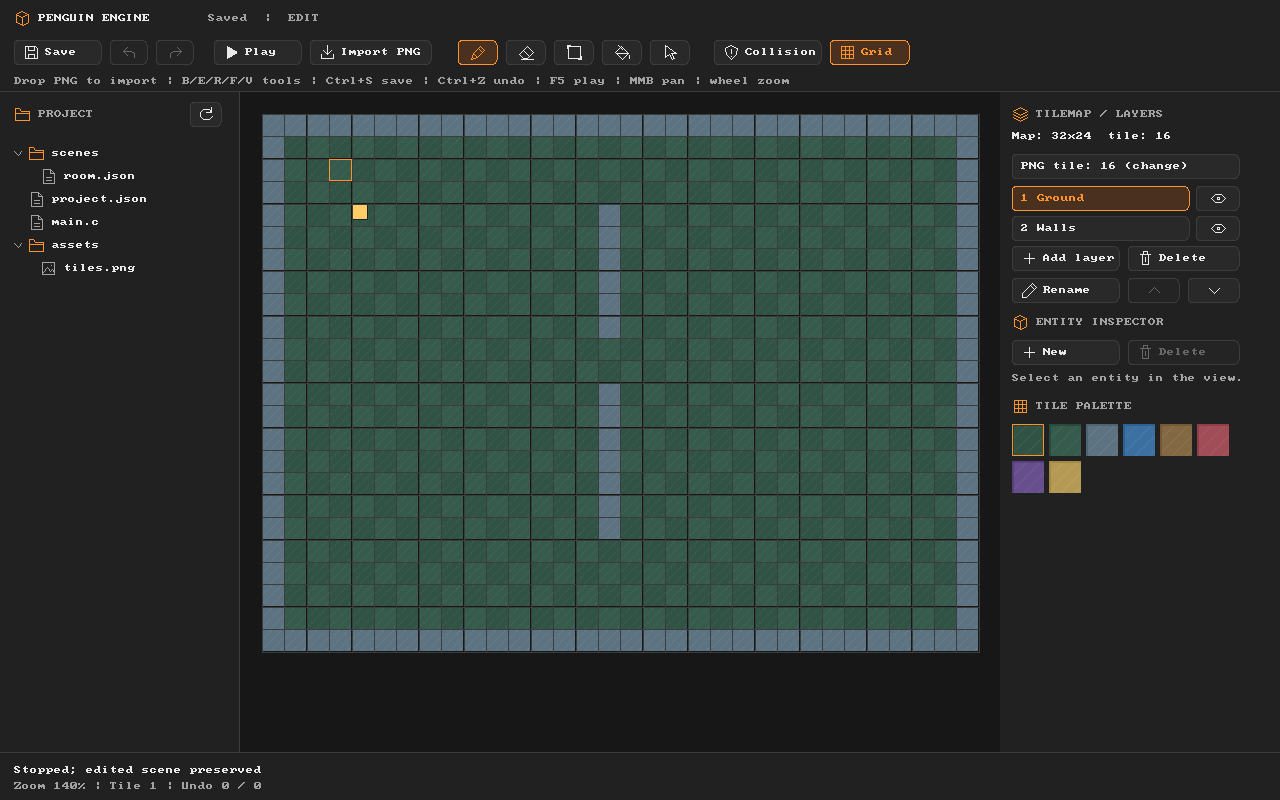
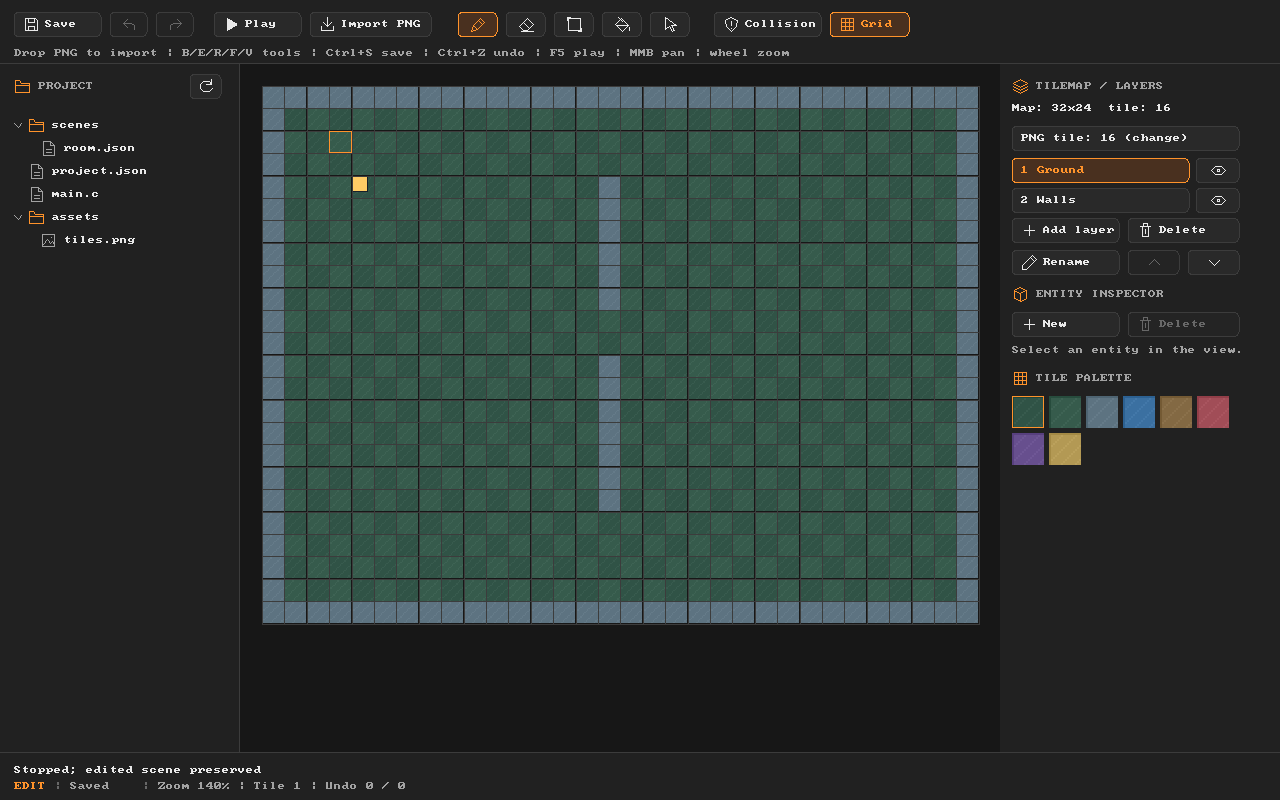
ui: move editor state into status bar and compact toolbar

diff --git a/editor/src/main.c b/editor/src/main.c
@@ -8,7 +8,7 @@
 #include <string.h>
 #define LEFT 240
 #define RIGHT 280
-#define TOP 92
+#define TOP 64
 #define BOTTOM 48
 #define TREE_MAX 256
 typedef enum { BRUSH, ERASE, RECTANGLE, FILL, SELECT } Tool;
@@ -506,15 +506,15 @@ static void play_toggle(void) {
         message("Stopped; edited scene preserved");
 }
 static void draw_tree(void) {
-    section(14, 110, ICON_FOLDER, "PROJECT");
-    if (icon_button(190, 102, 32, ICON_REFRESH, "", "Refresh project files", false, true))
+    section(14, TOP + 18, ICON_FOLDER, "PROJECT");
+    if (icon_button(190, TOP + 10, 32, ICON_REFRESH, "", "Refresh project files", false, true))
         tree_refresh();
-    SDL_Rect clip = {0, 138, LEFT, app.height - 138 - BOTTOM};
+    SDL_Rect clip = {0, TOP + 46, LEFT, app.height - TOP - 46 - BOTTOM};
     SDL_SetRenderClipRect(app.renderer, &clip);
-    int visible = (app.height - 138 - BOTTOM) / 23;
+    int visible = (app.height - TOP - 46 - BOTTOM) / 23;
     for (int i = app.tree_scroll; i < app.tree_count && i < app.tree_scroll + visible; i++) {
         TreeRow row = app.tree[i];
-        float y = 142 + (i - app.tree_scroll) * 23;
+        float y = TOP + 50 + (i - app.tree_scroll) * 23;
         char label[128];
         snprintf(label, sizeof label, "%.20s", row.name);
         SDL_FRect r = {8, y, LEFT - 16, 22};
@@ -551,7 +551,7 @@ static void draw_inspector(void) {
     float x = (float)(app.width - RIGHT + 12);
     char label[128], value[64];
     bool enabled = !app.playing;
-    float y = 110;
+    float y = TOP + 18;
     section(x, y, ICON_LAYERS, "TILEMAP / LAYERS");
     y += 22;
     snprintf(label, sizeof label, "Map: %dx%d  tile: %d", app.scene.width, app.scene.height,
@@ -741,46 +741,40 @@ static void draw(void) {
     bool saved_click = app.click;
     if (modal)
         app.click = false;
-    ui_icon(app.renderer, ICON_ENTITY, 14, 10, 16, UI_ACCENT);
-    text(38, 14, "PENGUIN ENGINE", UI_TEXT);
-    char heading[160];
-    snprintf(heading, sizeof heading, "%s  |  %s",
-             pe_history_dirty(&app.history) ? "Modified" : "Saved", app.playing ? "PLAY" : "EDIT");
-    text(208, 14, heading, UI_MUTED);
     tooltip = NULL;
-    if (icon_button(14, 40, 88, ICON_SAVE, "Save", "Save scene (Ctrl+S)", false,
+    if (icon_button(14, 12, 88, ICON_SAVE, "Save", "Save scene (Ctrl+S)", false,
                     !app.playing && !app.history.pending))
         save();
-    if (icon_button(110, 40, 38, ICON_UNDO, "", "Undo (Ctrl+Z)", false,
+    if (icon_button(110, 12, 38, ICON_UNDO, "", "Undo (Ctrl+Z)", false,
                     !app.playing && app.history.cursor > 0 && !app.history.pending)) {
         pe_undo(&app.history, &app.scene);
         selection_sync();
     }
-    if (icon_button(156, 40, 38, ICON_REDO, "", "Redo (Ctrl+Shift+Z)", false,
+    if (icon_button(156, 12, 38, ICON_REDO, "", "Redo (Ctrl+Shift+Z)", false,
                     !app.playing && app.history.cursor < app.history.count &&
                         !app.history.pending)) {
         pe_redo(&app.history, &app.scene);
         selection_sync();
     }
-    if (icon_button(214, 40, 88, app.playing ? ICON_STOP : ICON_PLAY, app.playing ? "Stop" : "Play",
+    if (icon_button(214, 12, 88, app.playing ? ICON_STOP : ICON_PLAY, app.playing ? "Stop" : "Play",
                     "Play / Stop (F5)", app.playing, !app.history.pending))
         play_toggle();
-    if (icon_button(310, 40, 122, ICON_IMPORT, "Import PNG", "Import a tileset image", false,
+    if (icon_button(310, 12, 122, ICON_IMPORT, "Import PNG", "Import a tileset image", false,
                     !app.playing))
         field_start(FIELD_IMPORT, "");
     const UiIcon tool_icons[] = {ICON_BRUSH, ICON_ERASE, ICON_RECTANGLE, ICON_FILL, ICON_SELECT};
     const char *tool_hints[] = {"Brush (B)", "Eraser (E)", "Rectangle (R)", "Fill (F)",
                                 "Select entity (V)"};
     for (int i = 0; i < 5; i++)
-        if (icon_button(458 + i * 48, 40, 40, tool_icons[i], "", tool_hints[i], app.tool == i,
+        if (icon_button(458 + i * 48, 12, 40, tool_icons[i], "", tool_hints[i], app.tool == i,
                         !app.playing && !app.history.pending))
             app.tool = i;
-    if (icon_button(714, 40, 108, ICON_COLLISION, "Collision", "Edit collision grid", app.collision,
+    if (icon_button(714, 12, 108, ICON_COLLISION, "Collision", "Edit collision grid", app.collision,
                     !app.playing))
         app.collision = !app.collision;
-    if (icon_button(830, 40, 80, ICON_GRID, "Grid", "Show tile grid", app.grid, true))
+    if (icon_button(830, 12, 80, ICON_GRID, "Grid", "Show tile grid", app.grid, true))
         app.grid = !app.grid;
-    text(14, 77,
+    text(14, 49,
          "Drop PNG to import | B/E/R/F/V tools | Ctrl+S save | Ctrl+Z undo | F5 play | MMB pan | "
          "wheel zoom",
          UI_MUTED);
@@ -822,7 +816,13 @@ static void draw(void) {
     char details[128];
     snprintf(details, sizeof details, "Zoom %.0f%% | Tile %d | Undo %d / %d", app.camera.zoom * 100,
              app.tile, app.history.cursor, app.history.count);
-    text(14, (float)(app.height - 18), details, UI_MUTED);
+    float status_y = (float)(app.height - 18);
+    text(14, status_y, app.playing ? "PLAY" : "EDIT", UI_ACCENT);
+    text(54, status_y, "|", UI_DISABLED);
+    text(70, status_y, pe_history_dirty(&app.history) ? "Modified" : "Saved",
+         pe_history_dirty(&app.history) ? UI_ACCENT : UI_MUTED);
+    text(142, status_y, "|", UI_DISABLED);
+    text(158, status_y, details, UI_MUTED);
     if (tooltip && !modal) {
         float width = (float)strlen(tooltip) * 8 + 20;
         float tx = fminf(app.mx + 12, app.width - width - 8),

diff --git a/docs/IMPLEMENTIERUNG.md b/docs/IMPLEMENTIERUNG.md
@@ -109,7 +109,7 @@ Weltkoordinaten sind Pixel, X zeigt nach rechts und Y nach unten. Die Kamera spe
 
 Der Renderer zeichnet sichtbare Tile-Ebenen, danach Entity-Rechtecke. Die erste Version hat noch keine frei konfigurierbare Sprite-Sortierung. Die Szene ist auf den mittleren Viewport begrenzt. PNG-Texturen verwenden nearest-neighbor filtering. Subpixel-Zoom ist im Editor erlaubt; eine feste interne Spielauflösung mit ganzzahliger Skalierung ist noch nicht umgesetzt.
 
-Die eigene Editor-GUI verwendet dunkelgraue Panels, orange Akzente, abgerundete Buttons und `SDL_RenderDebugText`. Das Farbschema ist zentral in `editor/src/ui.h` definiert. Die Icons werden mit SDL-Linien und Flächen gezeichnet, benötigen keine Icon-Schrift oder Bilddateien und folgen den Hover-, Auswahl- und Deaktiviert-Zuständen. Werkzeugbuttons zeigen Tooltips mit Namen und Tastenkürzeln. Sie benötigt keine zusätzliche GUI-Abhängigkeit. Textfelder akzeptieren SDL-Texteingabe; Backspace entfernt ein UTF-8-Zeichen, aber die Debug-Schrift stellt nicht alle Unicode-Zeichen dar. Textauswahl, Zwischenablage, Docking und frei verschiebbare Panels sind noch nicht vorhanden.
+Die eigene Editor-GUI verwendet dunkelgraue Panels, orange Akzente, abgerundete Buttons und `SDL_RenderDebugText`. Das Farbschema ist zentral in `editor/src/ui.h` definiert. Die Icons werden mit SDL-Linien und Flächen gezeichnet, benötigen keine Icon-Schrift oder Bilddateien und folgen den Hover-, Auswahl- und Deaktiviert-Zuständen. Werkzeugbuttons zeigen Tooltips mit Namen und Tastenkürzeln. Die kompakte Toolbar enthält keinen App-Titel; EDIT/PLAY und Saved/Modified stehen unten in der Statuszeile zusammen mit Zoom, Tile-Auswahl und Undo-Verlauf. Panel-Positionen richten sich nach der Toolbar-Höhe. Sie benötigt keine zusätzliche GUI-Abhängigkeit. Textfelder akzeptieren SDL-Texteingabe; Backspace entfernt ein UTF-8-Zeichen, aber die Debug-Schrift stellt nicht alle Unicode-Zeichen dar. Textauswahl, Zwischenablage, Docking und frei verschiebbare Panels sind noch nicht vorhanden.
 
 ## Play-Modus und Kollision
 
